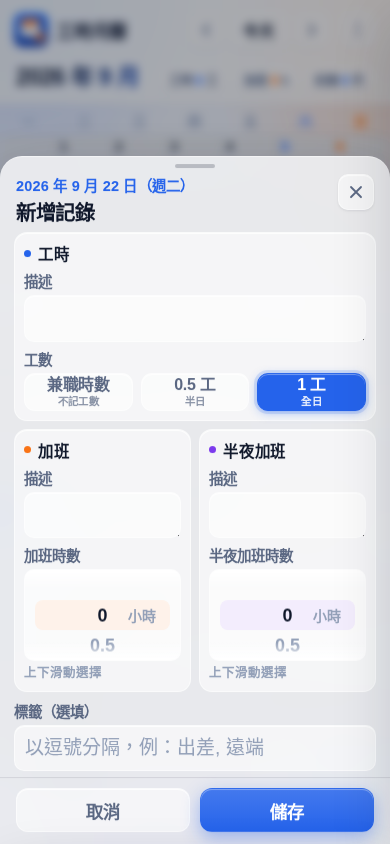
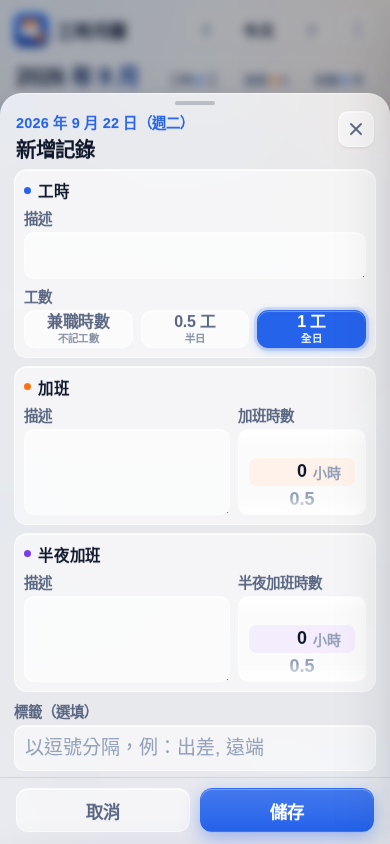
v1.28.2：編輯面板三卡改橫向長條卡片——描述在左、時數滾輪在右

diff --git a/worktime-calendar.standalone.html b/worktime-calendar.standalone.html
@@ -937,21 +937,40 @@ input, textarea { font-family: inherit; }
 .sheet-title { margin: 0; font-size: 20.5px; font-weight: 800; letter-spacing: -.3px; }
 
 .sheet-body {
-  /* 兩欄 grid：工時組與標籤跨兩欄，加班／半夜並排——
-     面板全部內容（三組＋標籤）在 844px 高的手機上不需滾動一屏看完。
-     grid 取代 flex 後，min-height: 0 與 overflow-y 仍是面板可捲動的必要條件。 */
+  /* 單欄堆疊：工時組、三張橫向長條卡（兼職／加班／半夜）、標籤由上至下排列。
+     橫條卡內部再左右分欄（描述左、時數滾輪右），見 .fg-row。
+     min-height: 0 與 overflow-y 仍是面板可捲動的必要條件：
+     flex 子項預設 min-height:auto 不會收縮——內容超過面板 max-height 時
+     會把底部儲存列推出視窗外，必須歸零才能讓內部捲動生效、foot 固定底部。 */
   padding: 2px 14px 6px;
   overflow-y: auto;
   flex: 1 1 auto;
-  min-height: 0; /* flex 子項預設 min-height:auto 不會收縮——內容超過面板
-                    max-height 時會把底部儲存列推出視窗外（滾輪加高後實測發生），
-                    必須歸零才能讓內部捲動生效、foot 固定在面板底部。 */
+  min-height: 0;
   display: grid;
-  grid-template-columns: repeat(2, minmax(0, 1fr));
+  grid-template-columns: minmax(0, 1fr);
   gap: 8px;
 }
-.sheet-body > .field-group:first-child,
 .sheet-body > .field:last-child { grid-column: 1 / -1; }
+
+/* ---- 橫向長條卡片：標題行＋左（描述）右（時數滾輪）兩欄 ---- */
+.fg-row .fg-cols {
+  display: flex;
+  gap: 8px;
+  align-items: stretch;   /* 左右欄等高，描述框與滾輪底線對齊 */
+}
+.fg-row .fg-cols > .field:first-child { flex: 1 1 auto; }
+/* 描述框填滿左欄高度（與滾輪等高）：長描述可見、卡片視覺飽滿 */
+.fg-row .fg-cols > .field:first-child textarea {
+  flex: 1 1 auto;
+  min-height: 0;
+}
+/* 滾輪欄固定寬：數字＋「小時」色帶在 128px 內完整呈現 */
+.fg-row .field-hours { flex: 0 0 128px; }
+/* 橫條內滾輪行高微縮（28×3＝84px），卡片更扁、面板一屏能看更多 */
+.fg-row .wheel-picker { --wheel-item-h: 28px; }
+/* 兼職卡無描述欄：左側放操作說明，垂直置中 */
+.fg-note { justify-content: center; }
+.fg-note .field-help { margin: 0; }
 
 .field { display: flex; flex-direction: column; gap: 4px; flex: 1 1 0; min-width: 0; }
 .field-row { display: flex; gap: 12px; }
@@ -2087,64 +2106,66 @@ textarea::placeholder, input::placeholder { color: var(--text-3); }
 
     <!-- 兼職小時區塊（時薪制：小時 × 時薪）
          預設收起（hidden）：選「兼職時數」chip 才展開；選 0.5／1 工收起。
-         編輯已有兼職記錄時由 openSheet 自動展開（openSheet 會覆寫 hidden）。 -->
-    <section class="field-group" id="partGroup" hidden>
+         編輯已有兼職記錄時由 openSheet 自動展開（openSheet 會覆寫 hidden）。
+         橫向長條卡片：左側說明、右側時數滾輪（無描述欄）。 -->
+    <section class="field-group fg-row" id="partGroup" hidden>
       <h4 class="group-title"><span class="dot dot-part"></span>兼職小時</h4>
-
-      <div class="field">
-        <span class="field-label" id="partHoursLabel">兼職時數</span>
-        <!-- 與加班滾輪同一套：上下滑動、0–24、每次 0.5；隱藏 input 為資料來源 -->
-        <div class="wheel-picker wheel-part" id="partHoursWheel" data-input="partHours" role="spinbutton"
-             tabindex="0" aria-label="兼職時數" aria-valuemin="0" aria-valuemax="24" aria-valuenow="0">
-          <div class="wheel-scroll"><!-- 選項由 JS 產生（0–24，每次 0.5）--></div>
-          <div class="wheel-band" aria-hidden="true"><span class="wheel-unit">小時</span></div>
+      <div class="fg-cols">
+        <div class="field fg-note">
+          <!-- 與加班滾輪同一套：上下滑動、0–24、每次 0.5；隱藏 input 為資料來源 -->
+          <p class="field-help">上下滑動選擇・按時薪計</p>
         </div>
-        <input id="partHours" type="number" inputmode="decimal" step="0.5" min="0" max="24" value="0" hidden>
-        <p class="field-help">上下滑動選擇・按時薪計</p>
+        <div class="field field-hours">
+          <span class="field-label" id="partHoursLabel">兼職時數</span>
+          <div class="wheel-picker wheel-part" id="partHoursWheel" data-input="partHours" role="spinbutton"
+               tabindex="0" aria-label="兼職時數" aria-valuemin="0" aria-valuemax="24" aria-valuenow="0">
+            <div class="wheel-scroll"><!-- 選項由 JS 產生（0–24，每次 0.5）--></div>
+            <div class="wheel-band" aria-hidden="true"><span class="wheel-unit">小時</span></div>
+          </div>
+          <input id="partHours" type="number" inputmode="decimal" step="0.5" min="0" max="24" value="0" hidden>
+        </div>
       </div>
     </section>
 
-    <!-- 加班區塊 -->
-    <section class="field-group">
+    <!-- 加班區塊（橫向長條卡片：描述在左、時數滾輪在右） -->
+    <section class="field-group fg-row">
       <h4 class="group-title"><span class="dot dot-ot"></span>加班</h4>
-
-      <div class="field">
-        <label class="field-label" for="otDesc">描述</label>
-        <textarea id="otDesc" rows="1"></textarea>
-      </div>
-
-      <div class="field">
-        <span class="field-label" id="otUnitsLabel">加班時數</span>
-        <!-- iOS 風格滾輪：上下滑動、吸附置中即為選中值。
-             隱藏的 number input 仍是資料來源（開面板寫值、儲存讀值）。 -->
-        <div class="wheel-picker wheel-ot" id="otHoursWheel" data-input="otHours" role="spinbutton"
-             tabindex="0" aria-label="加班時數" aria-valuemin="0" aria-valuemax="24" aria-valuenow="0">
-          <div class="wheel-scroll"><!-- 選項由 JS 產生（0–24，每次 0.5）--></div>
-          <div class="wheel-band" aria-hidden="true"><span class="wheel-unit">小時</span></div>
+      <div class="fg-cols">
+        <div class="field">
+          <label class="field-label" for="otDesc">描述</label>
+          <textarea id="otDesc" rows="1"></textarea>
         </div>
-        <input id="otHours" type="number" inputmode="decimal" step="0.5" min="0" max="24" value="0" hidden>
-        <p class="field-help">上下滑動選擇</p>
+        <div class="field field-hours">
+          <span class="field-label" id="otUnitsLabel">加班時數</span>
+          <!-- iOS 風格滾輪：上下滑動、吸附置中即為選中值。
+               隱藏的 number input 仍是資料來源（開面板寫值、儲存讀值）。 -->
+          <div class="wheel-picker wheel-ot" id="otHoursWheel" data-input="otHours" role="spinbutton"
+               tabindex="0" aria-label="加班時數" aria-valuemin="0" aria-valuemax="24" aria-valuenow="0">
+            <div class="wheel-scroll"><!-- 選項由 JS 產生（0–24，每次 0.5）--></div>
+            <div class="wheel-band" aria-hidden="true"><span class="wheel-unit">小時</span></div>
+          </div>
+          <input id="otHours" type="number" inputmode="decimal" step="0.5" min="0" max="24" value="0" hidden>
+        </div>
       </div>
     </section>
 
-    <!-- 半夜加班區塊 -->
-    <section class="field-group">
+    <!-- 半夜加班區塊（橫向長條卡片：描述在左、時數滾輪在右） -->
+    <section class="field-group fg-row">
       <h4 class="group-title"><span class="dot dot-night"></span>半夜加班</h4>
-
-      <div class="field">
-        <label class="field-label" for="nightDesc">描述</label>
-        <textarea id="nightDesc" rows="1"></textarea>
-      </div>
-
-      <div class="field">
-        <span class="field-label" id="nightUnitsLabel">半夜加班時數</span>
-        <div class="wheel-picker wheel-night" id="nightHoursWheel" data-input="nightHours" role="spinbutton"
-             tabindex="0" aria-label="半夜加班時數" aria-valuemin="0" aria-valuemax="24" aria-valuenow="0">
-          <div class="wheel-scroll"><!-- 選項由 JS 產生（0–24，每次 0.5）--></div>
-          <div class="wheel-band" aria-hidden="true"><span class="wheel-unit">小時</span></div>
+      <div class="fg-cols">
+        <div class="field">
+          <label class="field-label" for="nightDesc">描述</label>
+          <textarea id="nightDesc" rows="1"></textarea>
         </div>
-        <input id="nightHours" type="number" inputmode="decimal" step="0.5" min="0" max="24" value="0" hidden>
-        <p class="field-help">上下滑動選擇</p>
+        <div class="field field-hours">
+          <span class="field-label" id="nightUnitsLabel">半夜加班時數</span>
+          <div class="wheel-picker wheel-night" id="nightHoursWheel" data-input="nightHours" role="spinbutton"
+               tabindex="0" aria-label="半夜加班時數" aria-valuemin="0" aria-valuemax="24" aria-valuenow="0">
+            <div class="wheel-scroll"><!-- 選項由 JS 產生（0–24，每次 0.5）--></div>
+            <div class="wheel-band" aria-hidden="true"><span class="wheel-unit">小時</span></div>
+          </div>
+          <input id="nightHours" type="number" inputmode="decimal" step="0.5" min="0" max="24" value="0" hidden>
+        </div>
       </div>
     </section>
 
@@ -2395,8 +2416,8 @@ textarea::placeholder, input::placeholder { color: var(--text-3); }
   'use strict';
 
   // 由 bump-version.sh 自動維護
-  const APP_VERSION = '1.28.1';
-  const APP_BUILD = '20260921-1225';
+  const APP_VERSION = '1.28.2';
+  const APP_BUILD = '20260921-1452';
 
   const STORE_KEY = 'worktime-calendar:v1';
   const SETTINGS_KEY = 'worktime-calendar:settings:v1';

diff --git a/index.html b/index.html
@@ -112,64 +112,66 @@
 
     <!-- 兼職小時區塊（時薪制：小時 × 時薪）
          預設收起（hidden）：選「兼職時數」chip 才展開；選 0.5／1 工收起。
-         編輯已有兼職記錄時由 openSheet 自動展開（openSheet 會覆寫 hidden）。 -->
-    <section class="field-group" id="partGroup" hidden>
+         編輯已有兼職記錄時由 openSheet 自動展開（openSheet 會覆寫 hidden）。
+         橫向長條卡片：左側說明、右側時數滾輪（無描述欄）。 -->
+    <section class="field-group fg-row" id="partGroup" hidden>
       <h4 class="group-title"><span class="dot dot-part"></span>兼職小時</h4>
-
-      <div class="field">
-        <span class="field-label" id="partHoursLabel">兼職時數</span>
-        <!-- 與加班滾輪同一套：上下滑動、0–24、每次 0.5；隱藏 input 為資料來源 -->
-        <div class="wheel-picker wheel-part" id="partHoursWheel" data-input="partHours" role="spinbutton"
-             tabindex="0" aria-label="兼職時數" aria-valuemin="0" aria-valuemax="24" aria-valuenow="0">
-          <div class="wheel-scroll"><!-- 選項由 JS 產生（0–24，每次 0.5）--></div>
-          <div class="wheel-band" aria-hidden="true"><span class="wheel-unit">小時</span></div>
+      <div class="fg-cols">
+        <div class="field fg-note">
+          <!-- 與加班滾輪同一套：上下滑動、0–24、每次 0.5；隱藏 input 為資料來源 -->
+          <p class="field-help">上下滑動選擇・按時薪計</p>
         </div>
-        <input id="partHours" type="number" inputmode="decimal" step="0.5" min="0" max="24" value="0" hidden>
-        <p class="field-help">上下滑動選擇・按時薪計</p>
+        <div class="field field-hours">
+          <span class="field-label" id="partHoursLabel">兼職時數</span>
+          <div class="wheel-picker wheel-part" id="partHoursWheel" data-input="partHours" role="spinbutton"
+               tabindex="0" aria-label="兼職時數" aria-valuemin="0" aria-valuemax="24" aria-valuenow="0">
+            <div class="wheel-scroll"><!-- 選項由 JS 產生（0–24，每次 0.5）--></div>
+            <div class="wheel-band" aria-hidden="true"><span class="wheel-unit">小時</span></div>
+          </div>
+          <input id="partHours" type="number" inputmode="decimal" step="0.5" min="0" max="24" value="0" hidden>
+        </div>
       </div>
     </section>
 
-    <!-- 加班區塊 -->
-    <section class="field-group">
+    <!-- 加班區塊（橫向長條卡片：描述在左、時數滾輪在右） -->
+    <section class="field-group fg-row">
       <h4 class="group-title"><span class="dot dot-ot"></span>加班</h4>
-
-      <div class="field">
-        <label class="field-label" for="otDesc">描述</label>
-        <textarea id="otDesc" rows="1"></textarea>
-      </div>
-
-      <div class="field">
-        <span class="field-label" id="otUnitsLabel">加班時數</span>
-        <!-- iOS 風格滾輪：上下滑動、吸附置中即為選中值。
-             隱藏的 number input 仍是資料來源（開面板寫值、儲存讀值）。 -->
-        <div class="wheel-picker wheel-ot" id="otHoursWheel" data-input="otHours" role="spinbutton"
-             tabindex="0" aria-label="加班時數" aria-valuemin="0" aria-valuemax="24" aria-valuenow="0">
-          <div class="wheel-scroll"><!-- 選項由 JS 產生（0–24，每次 0.5）--></div>
-          <div class="wheel-band" aria-hidden="true"><span class="wheel-unit">小時</span></div>
+      <div class="fg-cols">
+        <div class="field">
+          <label class="field-label" for="otDesc">描述</label>
+          <textarea id="otDesc" rows="1"></textarea>
         </div>
-        <input id="otHours" type="number" inputmode="decimal" step="0.5" min="0" max="24" value="0" hidden>
-        <p class="field-help">上下滑動選擇</p>
+        <div class="field field-hours">
+          <span class="field-label" id="otUnitsLabel">加班時數</span>
+          <!-- iOS 風格滾輪：上下滑動、吸附置中即為選中值。
+               隱藏的 number input 仍是資料來源（開面板寫值、儲存讀值）。 -->
+          <div class="wheel-picker wheel-ot" id="otHoursWheel" data-input="otHours" role="spinbutton"
+               tabindex="0" aria-label="加班時數" aria-valuemin="0" aria-valuemax="24" aria-valuenow="0">
+            <div class="wheel-scroll"><!-- 選項由 JS 產生（0–24，每次 0.5）--></div>
+            <div class="wheel-band" aria-hidden="true"><span class="wheel-unit">小時</span></div>
+          </div>
+          <input id="otHours" type="number" inputmode="decimal" step="0.5" min="0" max="24" value="0" hidden>
+        </div>
       </div>
     </section>
 
-    <!-- 半夜加班區塊 -->
-    <section class="field-group">
+    <!-- 半夜加班區塊（橫向長條卡片：描述在左、時數滾輪在右） -->
+    <section class="field-group fg-row">
       <h4 class="group-title"><span class="dot dot-night"></span>半夜加班</h4>
-
-      <div class="field">
-        <label class="field-label" for="nightDesc">描述</label>
-        <textarea id="nightDesc" rows="1"></textarea>
-      </div>
-
-      <div class="field">
-        <span class="field-label" id="nightUnitsLabel">半夜加班時數</span>
-        <div class="wheel-picker wheel-night" id="nightHoursWheel" data-input="nightHours" role="spinbutton"
-             tabindex="0" aria-label="半夜加班時數" aria-valuemin="0" aria-valuemax="24" aria-valuenow="0">
-          <div class="wheel-scroll"><!-- 選項由 JS 產生（0–24，每次 0.5）--></div>
-          <div class="wheel-band" aria-hidden="true"><span class="wheel-unit">小時</span></div>
+      <div class="fg-cols">
+        <div class="field">
+          <label class="field-label" for="nightDesc">描述</label>
+          <textarea id="nightDesc" rows="1"></textarea>
         </div>
-        <input id="nightHours" type="number" inputmode="decimal" step="0.5" min="0" max="24" value="0" hidden>
-        <p class="field-help">上下滑動選擇</p>
+        <div class="field field-hours">
+          <span class="field-label" id="nightUnitsLabel">半夜加班時數</span>
+          <div class="wheel-picker wheel-night" id="nightHoursWheel" data-input="nightHours" role="spinbutton"
+               tabindex="0" aria-label="半夜加班時數" aria-valuemin="0" aria-valuemax="24" aria-valuenow="0">
+            <div class="wheel-scroll"><!-- 選項由 JS 產生（0–24，每次 0.5）--></div>
+            <div class="wheel-band" aria-hidden="true"><span class="wheel-unit">小時</span></div>
+          </div>
+          <input id="nightHours" type="number" inputmode="decimal" step="0.5" min="0" max="24" value="0" hidden>
+        </div>
       </div>
     </section>
 

diff --git a/styles.css b/styles.css
@@ -923,21 +923,40 @@ input, textarea { font-family: inherit; }
 .sheet-title { margin: 0; font-size: 20.5px; font-weight: 800; letter-spacing: -.3px; }
 
 .sheet-body {
-  /* 兩欄 grid：工時組與標籤跨兩欄，加班／半夜並排——
-     面板全部內容（三組＋標籤）在 844px 高的手機上不需滾動一屏看完。
-     grid 取代 flex 後，min-height: 0 與 overflow-y 仍是面板可捲動的必要條件。 */
+  /* 單欄堆疊：工時組、三張橫向長條卡（兼職／加班／半夜）、標籤由上至下排列。
+     橫條卡內部再左右分欄（描述左、時數滾輪右），見 .fg-row。
+     min-height: 0 與 overflow-y 仍是面板可捲動的必要條件：
+     flex 子項預設 min-height:auto 不會收縮——內容超過面板 max-height 時
+     會把底部儲存列推出視窗外，必須歸零才能讓內部捲動生效、foot 固定底部。 */
   padding: 2px 14px 6px;
   overflow-y: auto;
   flex: 1 1 auto;
-  min-height: 0; /* flex 子項預設 min-height:auto 不會收縮——內容超過面板
-                    max-height 時會把底部儲存列推出視窗外（滾輪加高後實測發生），
-                    必須歸零才能讓內部捲動生效、foot 固定在面板底部。 */
+  min-height: 0;
   display: grid;
-  grid-template-columns: repeat(2, minmax(0, 1fr));
+  grid-template-columns: minmax(0, 1fr);
   gap: 8px;
 }
-.sheet-body > .field-group:first-child,
 .sheet-body > .field:last-child { grid-column: 1 / -1; }
+
+/* ---- 橫向長條卡片：標題行＋左（描述）右（時數滾輪）兩欄 ---- */
+.fg-row .fg-cols {
+  display: flex;
+  gap: 8px;
+  align-items: stretch;   /* 左右欄等高，描述框與滾輪底線對齊 */
+}
+.fg-row .fg-cols > .field:first-child { flex: 1 1 auto; }
+/* 描述框填滿左欄高度（與滾輪等高）：長描述可見、卡片視覺飽滿 */
+.fg-row .fg-cols > .field:first-child textarea {
+  flex: 1 1 auto;
+  min-height: 0;
+}
+/* 滾輪欄固定寬：數字＋「小時」色帶在 128px 內完整呈現 */
+.fg-row .field-hours { flex: 0 0 128px; }
+/* 橫條內滾輪行高微縮（28×3＝84px），卡片更扁、面板一屏能看更多 */
+.fg-row .wheel-picker { --wheel-item-h: 28px; }
+/* 兼職卡無描述欄：左側放操作說明，垂直置中 */
+.fg-note { justify-content: center; }
+.fg-note .field-help { margin: 0; }
 
 .field { display: flex; flex-direction: column; gap: 4px; flex: 1 1 0; min-width: 0; }
 .field-row { display: flex; gap: 12px; }

diff --git a/sw.js b/sw.js
@@ -8,7 +8,7 @@
  *   4. controllerchange 觸發，頁面重新載入即為新版
  * ========================================================= */
 
-const CACHE = 'worktime-calendar-v1.28.1';
+const CACHE = 'worktime-calendar-v1.28.2';
 const PRECACHE = [
   './',
   './index.html',
